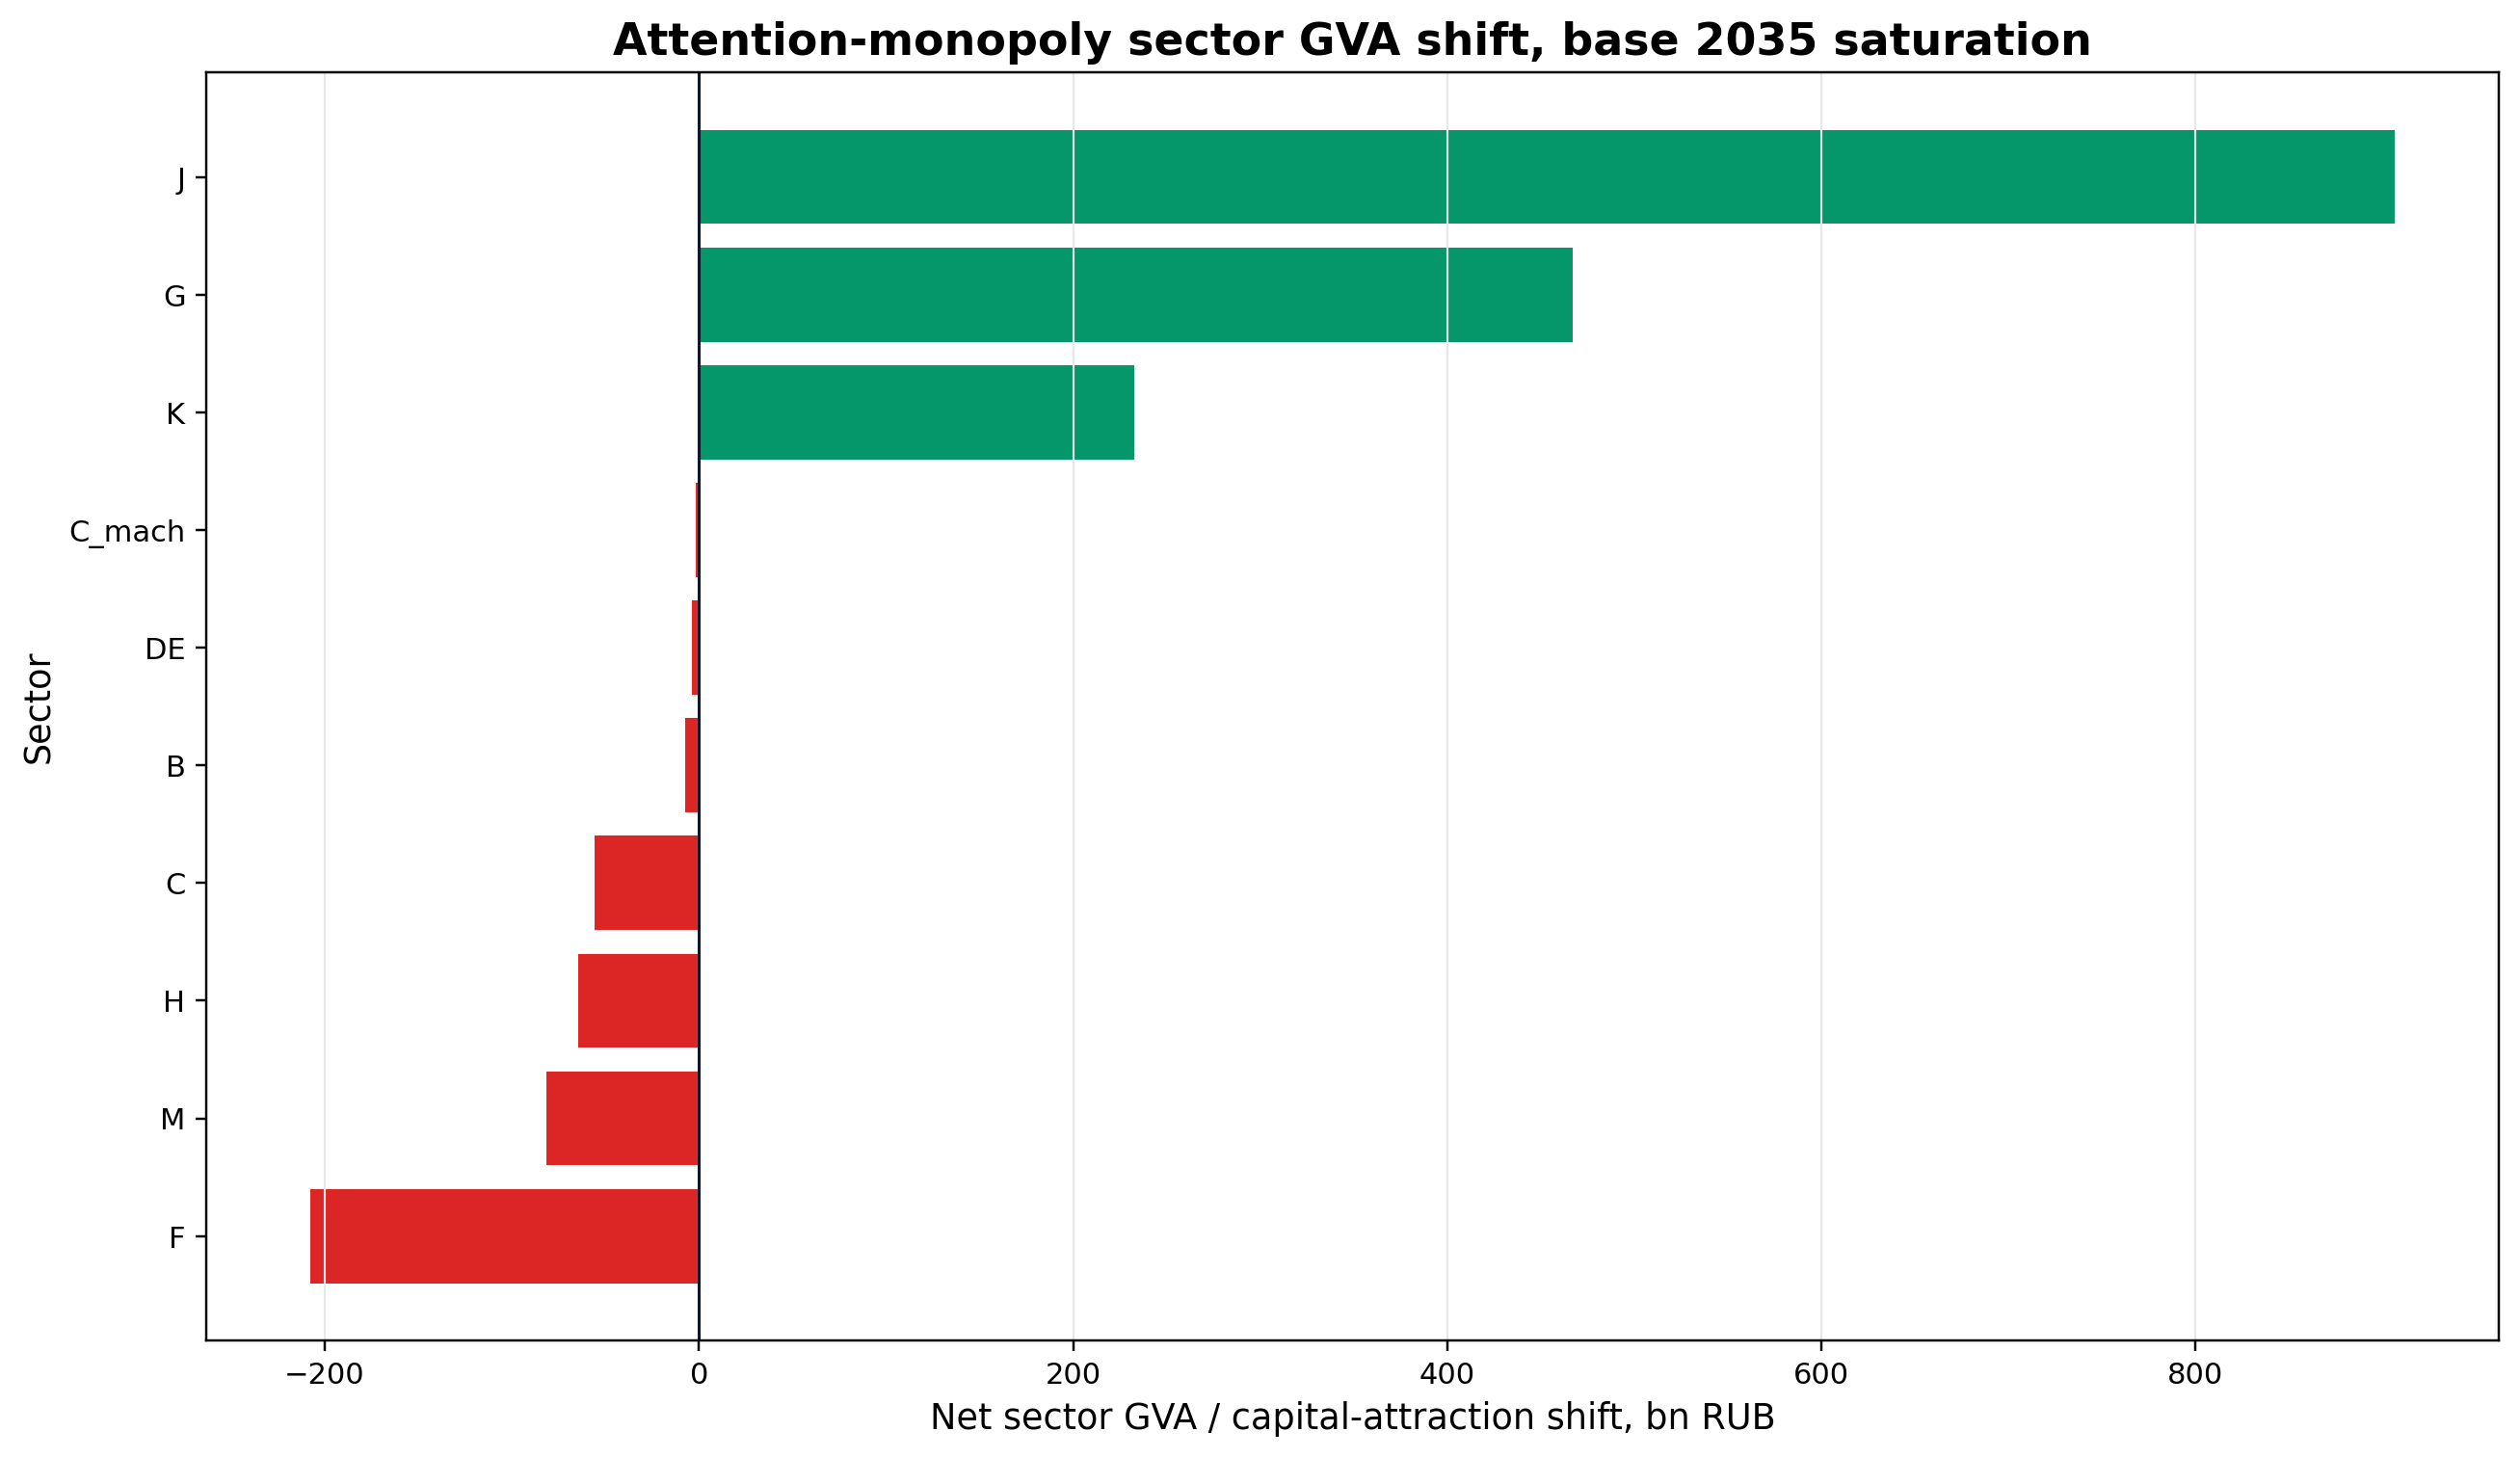
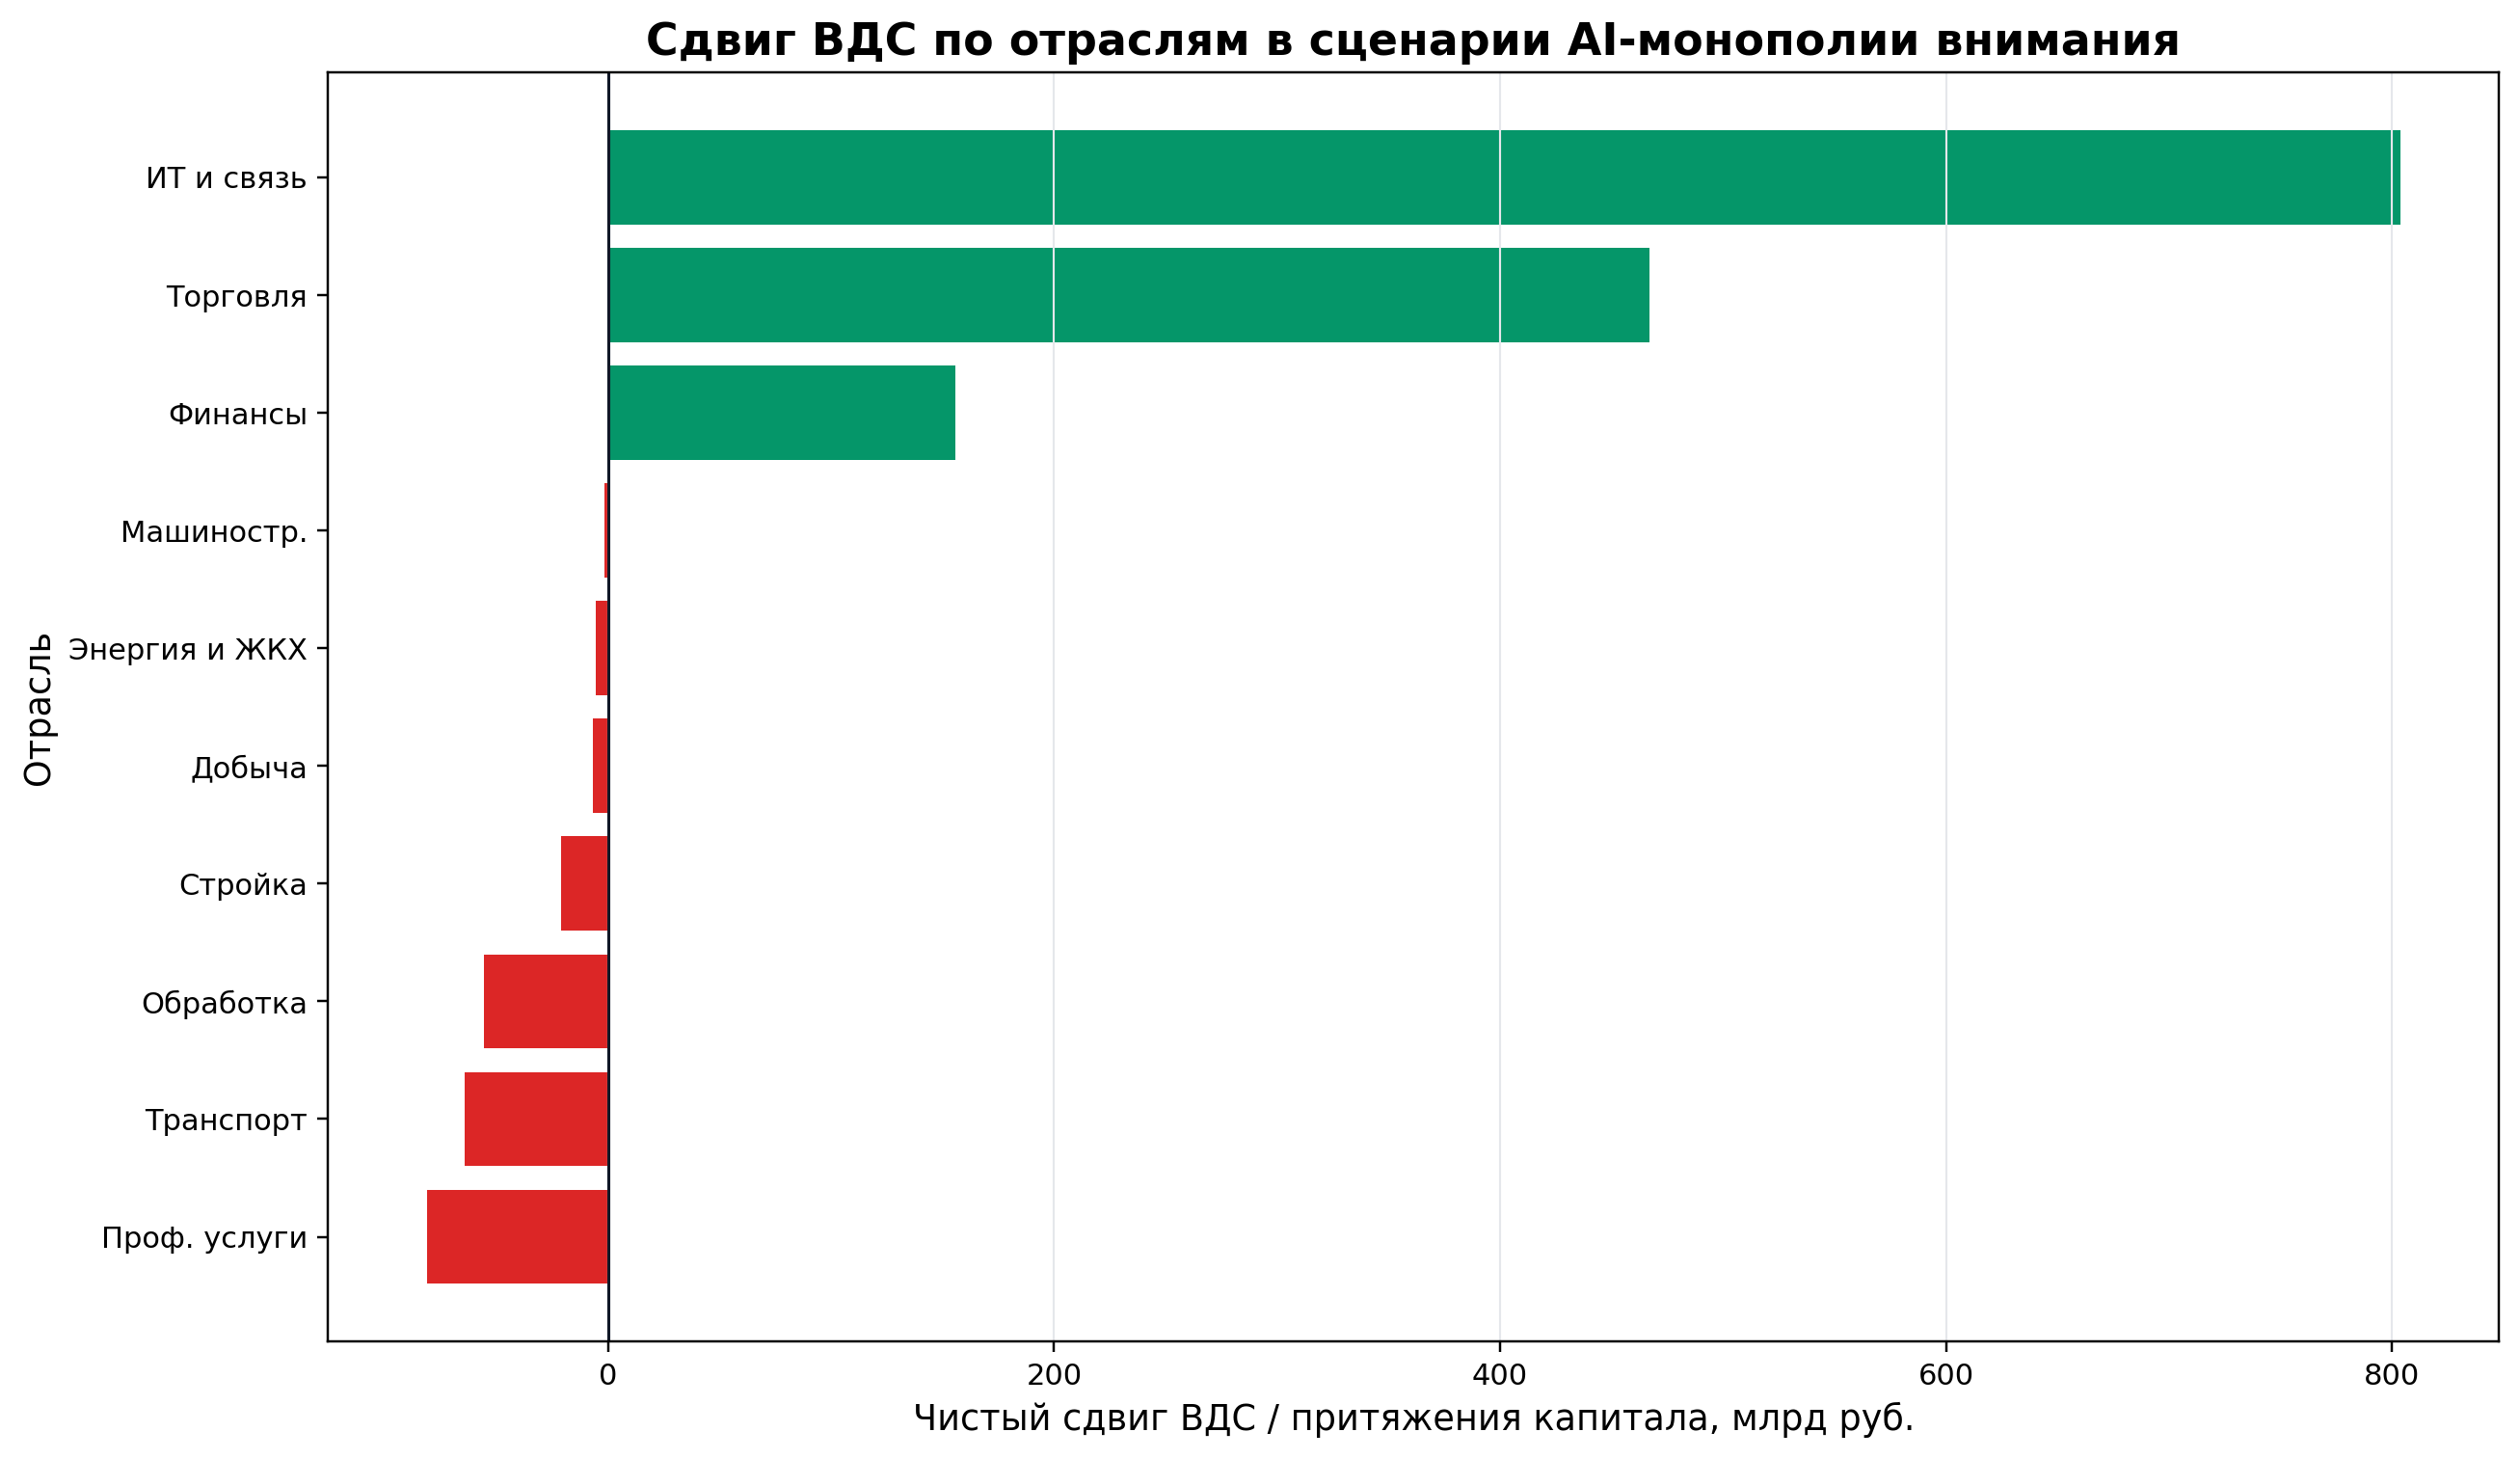
Recalibrate attention monopoly sector sensitivities

diff --git a/scripts/io_klems_attention.py b/scripts/io_klems_attention.py
@@ -32,16 +32,29 @@ DWL_FIG = FIG_DIR / "attention_deadweight_loss.png"
 
 
 SECTOR_LABELS = {
-    "B": "Mining",
-    "C": "Manufact.",
-    "C_mach": "Machinery",
-    "DE": "Energy",
-    "F": "Constr.",
-    "G": "Trade",
-    "H": "Transport",
-    "J": "IT",
-    "K": "Finance",
-    "M": "Prof.Svcs",
+    "B": "Добыча",
+    "C": "Обработка",
+    "C_mach": "Машиностр.",
+    "DE": "Энергия и ЖКХ",
+    "F": "Стройка",
+    "G": "Торговля",
+    "H": "Транспорт",
+    "J": "ИТ и связь",
+    "K": "Финансы",
+    "M": "Проф. услуги",
+}
+
+LABEL_OFFSETS = {
+    "B": (0.015, 0.010),
+    "C": (0.015, -0.030),
+    "C_mach": (0.015, 0.012),
+    "DE": (0.015, -0.030),
+    "F": (0.015, 0.020),
+    "G": (0.015, 0.015),
+    "H": (0.015, 0.012),
+    "J": (0.015, 0.010),
+    "K": (0.015, -0.030),
+    "M": (0.015, 0.012),
 }
 
 
@@ -129,6 +142,7 @@ def build_attention_sector_summary(inputs: pd.DataFrame, benchmarks: pd.DataFram
         + weights["integration_deficit"] * df["integration_deficit"]
         + weights["markup_intensity"] * df["markup_intensity"]
         + weights["sme_vulnerability"] * df["vulnerable_sme_share"]
+        + weights["gatekeeping_exposure"] * df["gatekeeping_exposure"]
         + weights["ai_adoption"] * df["A_2035"].fillna(df["A_2035"].median())
     )
 
@@ -168,6 +182,7 @@ def build_attention_sector_summary(inputs: pd.DataFrame, benchmarks: pd.DataFram
         bins=[-np.inf, 45.0, 60.0, np.inf],
         labels=["low", "medium", "high"],
     )
+    df["sector_label_ru"] = df["sector_id"].map(SECTOR_LABELS).fillna(df["sector_name_ru"])
     return df.sort_values("attention_risk_score", ascending=False).reset_index(drop=True)
 
 
@@ -180,7 +195,16 @@ def build_deadweight_loss(summary: pd.DataFrame, config: dict) -> pd.DataFrame:
         config["diffusion"]["saturation_share"]["base"]
     )
     df["deadweight_loss_bn_rub"] = 0.5 * elasticity * excess_markup.pow(2) * addressable_market
-    return df[["sector_id", "sector_name_ru", "deadweight_loss_bn_rub", "platform_markup_mid", "attention_dependency"]]
+    return df[
+        [
+            "sector_id",
+            "sector_name_ru",
+            "sector_label_ru",
+            "deadweight_loss_bn_rub",
+            "platform_markup_mid",
+            "attention_dependency",
+        ]
+    ]
 
 
 def configure_style() -> None:
@@ -222,6 +246,7 @@ def plot_risk_gradient(summary: pd.DataFrame, config: dict) -> None:
         + weights["integration_deficit"] * xx
         + weights["markup_intensity"] * mean_markup
         + weights["sme_vulnerability"] * mean_sme
+        + weights["gatekeeping_exposure"] * float(summary["gatekeeping_exposure"].mean())
         + weights["ai_adoption"] * mean_adoption
     )
 
@@ -238,16 +263,17 @@ def plot_risk_gradient(summary: pd.DataFrame, config: dict) -> None:
         zorder=3,
     )
     for row in summary.itertuples(index=False):
-        ax.text(row.integration_deficit + 0.015, row.attention_dependency + 0.012, SECTOR_LABELS[row.sector_id], fontsize=9)
+        dx, dy = LABEL_OFFSETS.get(row.sector_id, (0.015, 0.012))
+        ax.text(row.integration_deficit + dx, row.attention_dependency + dy, row.sector_label_ru, fontsize=9)
 
-    ax.set_title("Attention monopoly risk gradient by sector")
-    ax.set_xlabel("Integration deficit: 1 - AI/platform integration capacity")
-    ax.set_ylabel("Dependence on user attention / discovery channel")
+    ax.set_title("Градиент риска AI-монополии внимания по отраслям")
+    ax.set_xlabel("Дефицит интеграции: 1 - способность встроиться в AI/platform stack")
+    ax.set_ylabel("Зависимость от пользовательского внимания / discovery channel")
     ax.set_xlim(-0.02, 1.02)
     ax.set_ylim(-0.02, 1.02)
     ax.grid(color="#E5E7EB", linewidth=0.6)
     cbar = fig.colorbar(contour, ax=ax, pad=0.015)
-    cbar.set_label("Composite risk score, 0-100")
+    cbar.set_label("Композитный риск, 0-100")
     save_fig(fig, RISK_FIG)
 
 
@@ -255,11 +281,11 @@ def plot_gva_shift(summary: pd.DataFrame) -> None:
     df = summary.sort_values("attention_gva_shift_bn_rub")
     colors = np.where(df["attention_gva_shift_bn_rub"] >= 0, "#059669", "#DC2626")
     fig, ax = plt.subplots(figsize=(12, 7))
-    ax.barh(df["sector_id"], df["attention_gva_shift_bn_rub"], color=colors)
+    ax.barh(df["sector_label_ru"], df["attention_gva_shift_bn_rub"], color=colors)
     ax.axvline(0.0, color="#111827", linewidth=1.0)
-    ax.set_title("Attention-monopoly sector GVA shift, base 2035 saturation")
-    ax.set_xlabel("Net sector GVA / capital-attraction shift, bn RUB")
-    ax.set_ylabel("Sector")
+    ax.set_title("Сдвиг ВДС по отраслям в сценарии AI-монополии внимания")
+    ax.set_xlabel("Чистый сдвиг ВДС / притяжения капитала, млрд руб.")
+    ax.set_ylabel("Отрасль")
     ax.grid(axis="x", color="#E5E7EB", linewidth=0.7)
     save_fig(fig, GVA_FIG)
 
@@ -287,10 +313,10 @@ def plot_abm(abm: pd.DataFrame) -> None:
 def plot_deadweight_loss(dwl: pd.DataFrame) -> None:
     df = dwl.sort_values("deadweight_loss_bn_rub", ascending=True)
     fig, ax = plt.subplots(figsize=(11, 7))
-    ax.barh(df["sector_id"], df["deadweight_loss_bn_rub"], color="#7C2D12")
-    ax.set_title("Deadweight loss from monopoly access to intentions")
-    ax.set_xlabel("DWL, bn RUB")
-    ax.set_ylabel("Sector")
+    ax.barh(df["sector_label_ru"], df["deadweight_loss_bn_rub"], color="#7C2D12")
+    ax.set_title("Потери благосостояния от монопольного доступа к намерениям")
+    ax.set_xlabel("DWL, млрд руб.")
+    ax.set_ylabel("Отрасль")
     ax.grid(axis="x", color="#E5E7EB", linewidth=0.7)
     save_fig(fig, DWL_FIG)
 
@@ -328,7 +354,7 @@ m_s \\quad \\text{{platform markup}}.
 
 \[
 R_s = 100\\left(
-w_D D_s + w_I(1-I_s) + w_m \\frac{{m_s}}{{\\max_j m_j}} + w_E E_s + w_A A_s(2035)
+w_D D_s + w_I(1-I_s) + w_m \\frac{{m_s}}{{\\max_j m_j}} + w_E E_s + w_G G_s + w_A A_s(2035)
 \\right).
 \]
 
@@ -341,7 +367,7 @@ VA_s \\bar A D_s I_s c_s \\rho
 + \\mathbf{{1}}_{{s \\in platform}}\\Omega,
 \]
 
-где \(E_s\) — vulnerable SME share, \(c_s\) — CAC saving midpoint, \(\bar A=0.4\) — base saturation доля AI-интерфейса, \(\rho=0.5\) — retained CAC saving, \(\Omega\) — доля платформенной ренты, направленная в IT/platform sector.
+где \(E_s\) — vulnerable SME share, \(G_s\) — gatekeeping exposure, \(c_s\) — CAC saving midpoint, \(\bar A=0.4\) — base saturation доля AI-интерфейса, \(\rho=0.5\) — retained CAC saving, \(\Omega\) — доля платформенной ренты, направленная в IT/platform sector.
 
 ## 2. Highest Risk Sectors
 
@@ -354,6 +380,7 @@ VA_s \\bar A D_s I_s c_s \\rho
         "integration_capacity",
         "platform_markup_mid",
         "vulnerable_sme_share",
+        "gatekeeping_exposure",
         "attention_risk_score",
     ],
 )}

diff --git a/scripts/generate_attention_monopoly_report_pdf.py b/scripts/generate_attention_monopoly_report_pdf.py
@@ -169,7 +169,7 @@ def page_problem(pdf: PdfPages, summary: pd.DataFrame, abm: pd.DataFrame) -> Non
         0.28,
         0.16,
         "Цвет",
-        "Composite risk R_s от 0 до 100: зависимость от внимания, дефицит интеграции, markup, доля уязвимых МСП и AI adoption.",
+        "Composite risk R_s от 0 до 100: зависимость от внимания, дефицит интеграции, markup, доля уязвимых МСП, gatekeeping exposure и AI adoption.",
     )
 
     section_label(ax, 0.04, 0.345, "Ключевые числа базовой калибровки")
@@ -209,6 +209,7 @@ def page_model(pdf: PdfPages) -> None:
         r"$I_s \in [0,1]$ — способность встроиться в AI/platform stack",
         r"$m_s$ — platform markup за доступ к пользователю",
         r"$E_s$ — доля уязвимых МСП / игроков без собственного API-канала",
+        r"$G_s$ — gatekeeping exposure: риск ранжирования, lead allocation и default-рекомендаций",
         r"$A_s(2035)$ — adoption из существующего diffusion/capital-return слоя",
     ]
     y = 0.740
@@ -220,7 +221,7 @@ def page_model(pdf: PdfPages) -> None:
     ax.text(
         0.060,
         0.360,
-        r"$R_s = 100\left(w_DD_s+w_I(1-I_s)+w_m\frac{m_s}{\max_j m_j}+w_EE_s+w_AA_s(2035)\right)$",
+        r"$R_s = 100\left(w_DD_s+w_I(1-I_s)+w_m\frac{m_s}{\max_j m_j}+w_EE_s+w_GG_s+w_AA_s(2035)\right)$",
         fontsize=15.0,
         color=INK,
     )
@@ -256,7 +257,7 @@ def page_risk_gradient(pdf: PdfPages, summary: pd.DataFrame) -> None:
     top = summary.sort_values("attention_risk_score", ascending=False).head(5).copy()
     top_table = pd.DataFrame(
         {
-            "Сектор": top["sector_id"],
+            "Сектор": top["sector_label_ru"],
             "D": top["attention_dependency"].map(lambda x: f"{x:.2f}"),
             "I": top["integration_capacity"].map(lambda x: f"{x:.2f}"),
             "R": top["attention_risk_score"].map(lambda x: f"{x:.1f}"),
@@ -288,9 +289,9 @@ def page_gva_results(pdf: PdfPages, summary: pd.DataFrame) -> None:
     winners = summary.sort_values("attention_gva_shift_bn_rub", ascending=False).head(4)
     table = pd.DataFrame(
         {
-            "Losers": losers["sector_id"].to_list(),
+            "Потери": losers["sector_label_ru"].to_list(),
             "ΔVA, млрд": losers["attention_gva_shift_bn_rub"].map(lambda x: f"{x:.0f}").to_list(),
-            "Winners": winners["sector_id"].to_list(),
+            "Выигрыш": winners["sector_label_ru"].to_list(),
             "ΔVA, млрд ": winners["attention_gva_shift_bn_rub"].map(lambda x: f"{x:.0f}").to_list(),
         }
     )
@@ -330,12 +331,12 @@ def page_abm_dwl(pdf: PdfPages, summary: pd.DataFrame, dwl: pd.DataFrame) -> Non
     top_dwl = dwl.sort_values("deadweight_loss_bn_rub", ascending=False).head(5)
     dwl_table = pd.DataFrame(
         {
-            "Сектор": top_dwl["sector_id"],
+            "Сектор": top_dwl["sector_label_ru"],
             "DWL, млрд": top_dwl["deadweight_loss_bn_rub"].map(lambda x: f"{x:.1f}"),
             "markup": top_dwl["platform_markup_mid"].map(lambda x: f"{x:.2f}"),
         }
     )
-    section_label(ax, 0.61, 0.450, "Top welfare losses")
+    section_label(ax, 0.61, 0.450, "Максимальные welfare losses")
     add_table(ax, dwl_table, [0.61, 0.225, 0.31, 0.185], fontsize=8.4)
     total_dwl = float(dwl["deadweight_loss_bn_rub"].sum())
     wrapped_text(
@@ -373,7 +374,7 @@ def page_assumptions(pdf: PdfPages, summary: pd.DataFrame) -> None:
     table = summary.sort_values("attention_risk_score", ascending=False).copy()
     diagnostic = pd.DataFrame(
         {
-            "Сектор": table["sector_id"],
+            "Сектор": table["sector_label_ru"],
             "R": table["attention_risk_score"].map(lambda x: f"{x:.1f}"),
             "Fee": table["platform_access_fee_bn_rub"].map(lambda x: f"{x:.0f}"),
             "CAC gain": table["cac_saving_va_gain_bn_rub"].map(lambda x: f"{x:.0f}"),

diff --git a/docs/attention_monopoly_scenario.md b/docs/attention_monopoly_scenario.md
@@ -18,7 +18,7 @@ m_s \quad \text{platform markup}.
 
 \[
 R_s = 100\left(
-w_D D_s + w_I(1-I_s) + w_m \frac{m_s}{\max_j m_j} + w_E E_s + w_A A_s(2035)
+w_D D_s + w_I(1-I_s) + w_m \frac{m_s}{\max_j m_j} + w_E E_s + w_G G_s + w_A A_s(2035)
 \right).
 \]
 
@@ -31,52 +31,52 @@ VA_s \bar A D_s I_s c_s \rho
 + \mathbf{1}_{s \in platform}\Omega,
 \]
 
-где \(E_s\) — vulnerable SME share, \(c_s\) — CAC saving midpoint, \(\bar A=0.4\) — base saturation доля AI-интерфейса, \(\rho=0.5\) — retained CAC saving, \(\Omega\) — доля платформенной ренты, направленная в IT/platform sector.
+где \(E_s\) — vulnerable SME share, \(G_s\) — gatekeeping exposure, \(c_s\) — CAC saving midpoint, \(\bar A=0.4\) — base saturation доля AI-интерфейса, \(\rho=0.5\) — retained CAC saving, \(\Omega\) — доля платформенной ренты, направленная в IT/platform sector.
 
 ## 2. Highest Risk Sectors
 
-| sector_id | sector_name_ru | attention_dependency | integration_capacity | platform_markup_mid | vulnerable_sme_share | attention_risk_score |
-| --- | --- | --- | --- | --- | --- | --- |
-| M | Профессиональные и научные услуги | 0.700 | 0.550 | 0.220 | 0.650 | 69.880 |
-| F | Строительство | 0.550 | 0.300 | 0.200 | 0.700 | 65.998 |
-| G | Оптовая и розничная торговля | 0.850 | 0.700 | 0.100 | 0.700 | 58.493 |
-| J | ИТ и связь | 0.900 | 0.900 | 0.180 | 0.200 | 57.744 |
-| H | Транспорт и логистика | 0.450 | 0.450 | 0.120 | 0.550 | 49.225 |
-| C | Обрабатывающая промышленность без машиностроения | 0.350 | 0.400 | 0.080 | 0.450 | 42.925 |
-| K | Финансы и страхование | 0.750 | 0.800 | 0.030 | 0.250 | 42.107 |
-| C_mach | Машиностроение (ОКВЭД 26–30) | 0.250 | 0.500 | 0.060 | 0.350 | 33.606 |
-| DE | Энергетика и ЖКХ | 0.200 | 0.350 | 0.040 | 0.250 | 32.288 |
-| B | Добыча полезных ископаемых | 0.150 | 0.450 | 0.050 | 0.200 | 27.112 |
+| sector_id | sector_name_ru | attention_dependency | integration_capacity | platform_markup_mid | vulnerable_sme_share | gatekeeping_exposure | attention_risk_score |
+| --- | --- | --- | --- | --- | --- | --- | --- |
+| M | Профессиональные и научные услуги | 0.700 | 0.550 | 0.220 | 0.650 | 0.700 | 69.880 |
+| J | ИТ и связь | 0.900 | 0.900 | 0.180 | 0.200 | 0.800 | 63.653 |
+| K | Финансы и страхование | 0.850 | 0.650 | 0.060 | 0.450 | 0.900 | 63.471 |
+| G | Оптовая и розничная торговля | 0.850 | 0.700 | 0.100 | 0.700 | 0.750 | 61.970 |
+| H | Транспорт и логистика | 0.450 | 0.450 | 0.120 | 0.550 | 0.550 | 49.748 |
+| C | Обрабатывающая промышленность без машиностроения | 0.350 | 0.400 | 0.080 | 0.450 | 0.350 | 41.106 |
+| F | Строительство | 0.350 | 0.450 | 0.080 | 0.550 | 0.350 | 40.021 |
+| DE | Энергетика и ЖКХ | 0.300 | 0.400 | 0.050 | 0.300 | 0.450 | 38.061 |
+| C_mach | Машиностроение (ОКВЭД 26–30) | 0.250 | 0.500 | 0.060 | 0.350 | 0.300 | 32.743 |
+| B | Добыча полезных ископаемых | 0.150 | 0.450 | 0.050 | 0.200 | 0.250 | 26.475 |
 
 ## 3. Net GVA Shift
 
 | sector_id | sector_name_ru | platform_access_fee_bn_rub | cac_saving_va_gain_bn_rub | attention_gva_shift_bn_rub | capital_reallocation_pressure_bn_rub |
 | --- | --- | --- | --- | --- | --- |
-| F | Строительство | 244.672 | 37.009 | -207.663 | 281.681 |
 | M | Профессиональные и научные услуги | 206.458 | 125.126 | -81.332 | 331.585 |
 | H | Транспорт и логистика | 114.938 | 50.559 | -64.379 | 165.497 |
 | C | Обрабатывающая промышленность без машиностроения | 103.269 | 47.480 | -55.789 | 150.749 |
+| F | Строительство | 44.617 | 23.551 | -21.065 | 68.168 |
 | B | Добыча полезных ископаемых | 22.230 | 15.157 | -7.073 | 37.388 |
-| DE | Энергетика и ЖКХ | 6.329 | 2.727 | -3.603 | 9.056 |
+| DE | Энергетика и ЖКХ | 11.393 | 5.843 | -5.550 | 17.236 |
 | C_mach | Машиностроение (ОКВЭД 26–30) | 11.420 | 9.869 | -1.551 | 21.290 |
-| K | Финансы и страхование | 10.362 | 243.153 | 232.791 | 253.514 |
+| K | Финансы и страхование | 47.677 | 203.548 | 155.871 | 251.226 |
 | G | Оптовая и розничная торговля | 191.994 | 658.804 | 466.810 | 850.798 |
-| J | ИТ и связь | 25.825 | 322.815 | 906.364 | 348.640 |
+| J | ИТ и связь | 25.825 | 322.815 | 803.875 | 348.640 |
 
 ## 4. Deadweight Loss
 
 | sector_id | sector_name_ru | platform_markup_mid | attention_dependency | deadweight_loss_bn_rub |
 | --- | --- | --- | --- | --- |
 | M | Профессиональные и научные услуги | 0.220 | 0.700 | 54.752 |
-| F | Строительство | 0.200 | 0.550 | 35.652 |
 | J | ИТ и связь | 0.180 | 0.900 | 32.282 |
 | G | Оптовая и розничная торговля | 0.100 | 0.850 | 22.136 |
 | H | Транспорт и логистика | 0.120 | 0.450 | 10.921 |
 | C | Обрабатывающая промышленность без машиностроения | 0.080 | 0.350 | 4.451 |
+| F | Строительство | 0.080 | 0.350 | 1.963 |
+| K | Финансы и страхование | 0.060 | 0.850 | 1.691 |
 | B | Добыча полезных ископаемых | 0.050 | 0.150 | 0.323 |
 | C_mach | Машиностроение (ОКВЭД 26–30) | 0.060 | 0.250 | 0.305 |
-| DE | Энергетика и ЖКХ | 0.040 | 0.200 | 0.023 |
-| K | Финансы и страхование | 0.030 | 0.750 | 0.000 |
+| DE | Энергетика и ЖКХ | 0.050 | 0.300 | 0.140 |
 
 ## 5. Artifacts
 